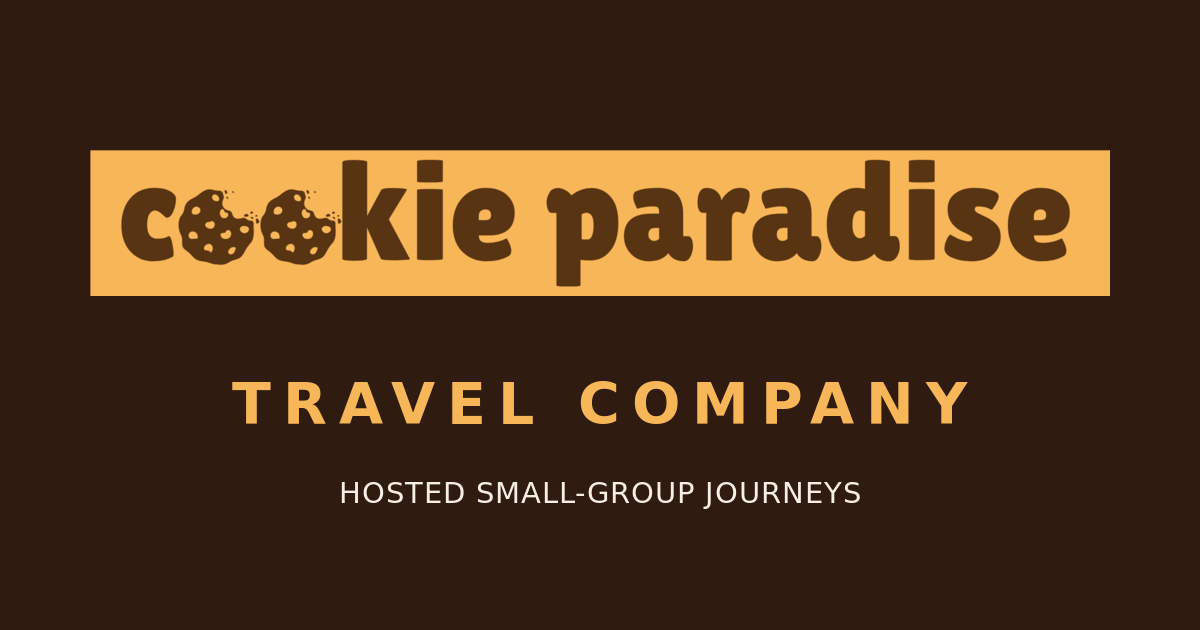
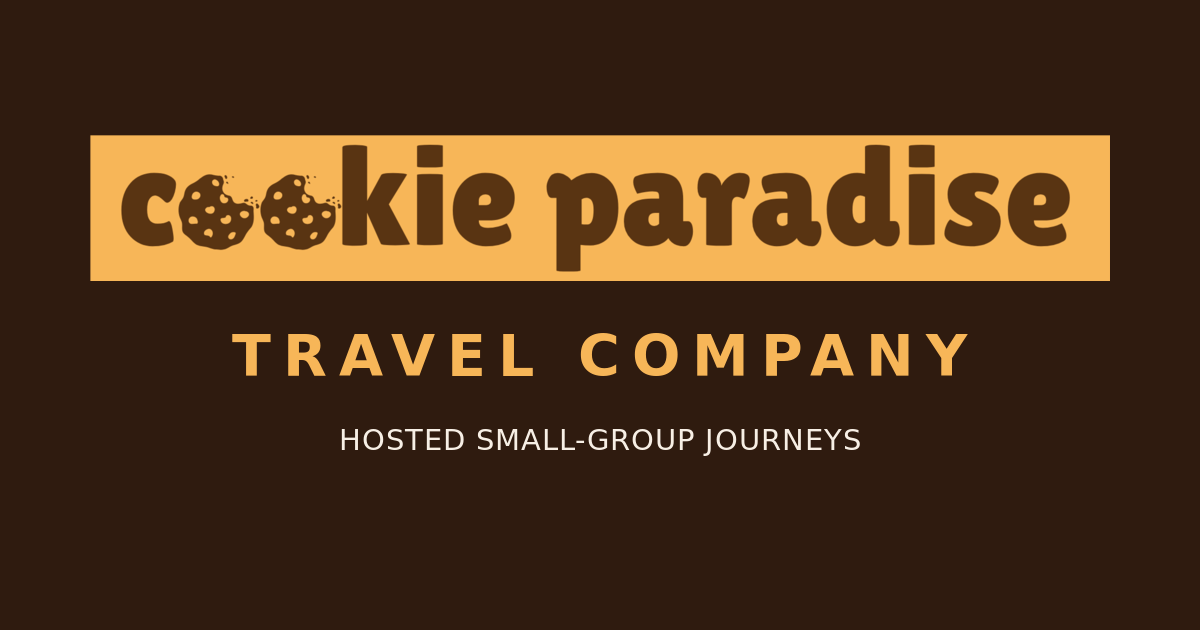
Tighten social preview spacing

Changed region(s): [[0.0617, 0.2111, 0.925, 0.4825], [0.185, 0.5127, 0.8017, 0.7238], [0.2775, 0.754, 0.7092, 0.8143]]

diff --git a/app/layout.tsx b/app/layout.tsx
@@ -12,7 +12,7 @@ export const metadata: Metadata = {
     title: "Cookie Paradise Travel Company | Hosted Small-Group Journeys",
     description: "Thoughtfully hosted small-group journeys from Cookie Paradise Travel Company, beginning with Vietnam in 2027.",
     images: [{
-      url: "/social-preview.png",
+      url: "/social-preview.png?v=2",
       width: 1200,
       height: 630,
       alt: "Cookie Paradise Travel Company",
@@ -22,7 +22,7 @@ export const metadata: Metadata = {
     card: "summary_large_image",
     title: "Cookie Paradise Travel Company | Hosted Small-Group Journeys",
     description: "Thoughtfully hosted small-group journeys from Cookie Paradise Travel Company, beginning with Vietnam in 2027.",
-    images: ["/social-preview.png"],
+    images: ["/social-preview.png?v=2"],
   },
   icons: {
     icon: [{ url: "/favicon.png", type: "image/png", sizes: "256x256" }],
